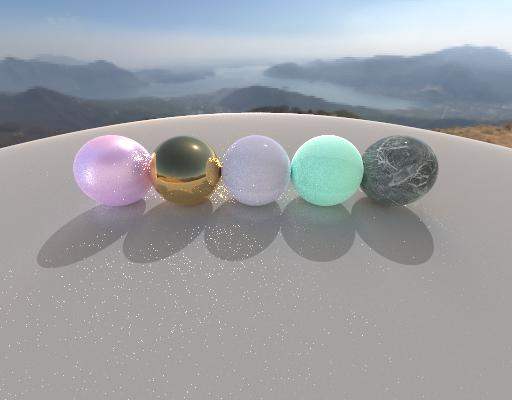
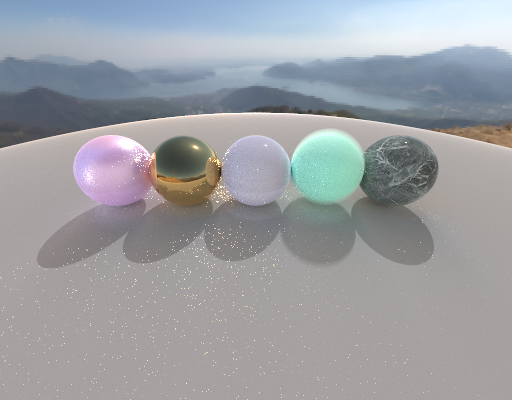
add motion blur

diff --git a/pbrtrs_core/src/scene.rs b/pbrtrs_core/src/scene.rs
@@ -1,7 +1,7 @@
 use crate::types::scalar::consts::PI;
 use crate::types::{color, Color, Euler, Mat4, Pt2, Pt3, Scalar, Vec3};
 
-use cgmath::{vec3, EuclideanSpace, InnerSpace, Rad};
+use cgmath::{vec3, EuclideanSpace, InnerSpace, Rad, Zero};
 use image::{ImageBuffer, Luma, Pixel, Rgb, Rgb32FImage};
 use std::fmt::{Debug, Formatter};
 use std::marker::PhantomData;
@@ -192,8 +192,8 @@ impl Default for DisneyMaterial {
 pub struct Object {
     pub shape: Shape,
     pub position: Pt3,
-    pub rotation: Option<Euler>,
-    pub scale: Option<Euler>,
+    #[serde(default = "Vec3::zero")]
+    pub motion: Vec3,
     pub material: DisneyMaterial,
 }
 
@@ -215,6 +215,7 @@ struct CameraRaw {
     pub position: Pt3,
     pub direction: Vec3,
     pub sensor_distance: Scalar,
+    pub exposure_time: Scalar,
 
     pub bounce_limit: usize,
     pub num_samples: usize,
@@ -227,6 +228,7 @@ pub struct Camera {
     pub position: Pt3,
     pub direction: Vec3,
     pub sensor_distance: Scalar,
+    pub exposure_time: Scalar,
 
     pub bounce_limit: usize,
     pub num_samples: usize,
@@ -236,16 +238,25 @@ pub struct Camera {
 
 impl<'de> DeserializeTrait<'de> for Camera {
     fn deserialize<D: Deserializer<'de>>(deserializer: D) -> Result<Self, D::Error> {
-        let camera_raw: CameraRaw = CameraRaw::deserialize(deserializer)?;
+        let CameraRaw {
+            position,
+            direction,
+            sensor_distance,
+            exposure_time,
+            bounce_limit,
+            num_samples,
+            width,
+            height,
+        } = CameraRaw::deserialize(deserializer)?;
         Ok(Camera {
-            position: camera_raw.position,
-            direction: camera_raw.direction.normalize(),
-            sensor_distance: camera_raw.sensor_distance,
-
-            bounce_limit: camera_raw.bounce_limit,
-            num_samples: camera_raw.num_samples,
-            width: camera_raw.width,
-            height: camera_raw.height,
+            position,
+            direction: direction.normalize(),
+            sensor_distance,
+            exposure_time,
+            bounce_limit,
+            num_samples,
+            width,
+            height,
         })
     }
 }

diff --git a/pbrtrs_main/src/main.rs b/pbrtrs_main/src/main.rs
@@ -98,12 +98,13 @@ fn main() -> Result<(), Box<dyn std::error::Error>> {
                 let mut color = Color::origin();
                 for _ in 0..scene.camera.num_samples {
                     debugger::begin_sample!();
+                    let time = scalar::rand() * scene.camera.exposure_time;
                     let x = x as Scalar + scalar::rand();
                     let y = y as Scalar + scalar::rand();
                     let x = (x / image_width as Scalar) * 2.0 - 1.0;
                     let y = ((y / image_height as Scalar) * 2.0 - 1.0) / aspect_ratio;
                     let ray_dir = camera_basis * vec3(x, y, scene.camera.sensor_distance);
-                    let ray = Ray::new(scene.camera.position, ray_dir);
+                    let ray = Ray::new(scene.camera.position, ray_dir, time);
 
                     let sample_color = ray_color(&ray, &scene, &arena);
                     debugger::end_sample!(sample_color);

diff --git a/pbrtrs_core/src/light/mod.rs b/pbrtrs_core/src/light/mod.rs
@@ -230,7 +230,7 @@ pub fn estimate_direct<M>(
         // TODO: handle medium interactions
 
         if wi.dot(intersection.normal) > 0.0 {
-            let inter_to_light = Ray::new(intersection.point, wi);
+            let inter_to_light = Ray::new(intersection.point, wi, ray.time);
             if scene.intersect(&inter_to_light).is_miss() {
                 let f = bsdf.f(-ray.direction, wi, bxdf_kind);
                 let f = f * wi.dot(intersection.normal).abs();
@@ -288,7 +288,7 @@ pub fn estimate_direct<M>(
             };
 
             if wi.dot(intersection.normal) > 0.0 {
-                let ray = Ray::new(intersection.point, wi);
+                let ray = Ray::new(intersection.point, wi, ray.time);
 
                 if scene.intersect(&ray).is_miss() {
                     let li = light.le(&ray);

diff --git a/pbrtrs_core/src/intersect.rs b/pbrtrs_core/src/intersect.rs
@@ -119,10 +119,11 @@ impl Scene {
     pub fn intersect(&self, ray: &Ray) -> PossibleIntersection<SampledDisneyMaterial> {
         let mut nearest = PossibleIntersection::Miss;
         for object in &self.objects {
-            match object
-                .shape
-                .intersect(ray, object.position.to_vec(), &object.material)
-            {
+            match object.shape.intersect(
+                ray,
+                object.position.to_vec() + object.motion * ray.time,
+                &object.material,
+            ) {
                 PossibleIntersection::Hit(intersection) => {
                     if nearest.is_miss() || intersection.distance < nearest.unwrap().distance {
                         nearest = PossibleIntersection::Hit(intersection);

diff --git a/pbrtrs_core/src/types.rs b/pbrtrs_core/src/types.rs
@@ -59,19 +59,25 @@ pub mod color {
 pub struct Ray {
     pub origin: Pt3,
     pub direction: Vec3,
+    pub time: Scalar,
 }
 
 impl Ray {
-    pub fn new(origin: Pt3, direction: Vec3) -> Ray {
+    pub fn new(origin: Pt3, direction: Vec3, time: Scalar) -> Ray {
         Ray {
             origin,
             direction: direction.normalize(),
+            time,
         }
     }
 
-    pub fn new_no_normalize(origin: Pt3, direction: Vec3) -> Ray {
+    pub fn new_no_normalize(origin: Pt3, direction: Vec3, time: Scalar) -> Ray {
         debug_assert_eq!(direction.magnitude2(), 1.0);
-        Ray { origin, direction }
+        Ray {
+            origin,
+            direction,
+            time,
+        }
     }
 
     pub fn at(&self, t: Scalar) -> Pt3 {

diff --git a/pbrtrs_core/src/raytracer.rs b/pbrtrs_core/src/raytracer.rs
@@ -72,7 +72,7 @@ pub fn ray_color<'arena>(ray: &Ray, scene: &Scene, arena: &'arena Bump) -> Color
                     break;
                 }
 
-                ray = Ray::new(intersection.point, wi);
+                ray = Ray::new(intersection.point, wi, ray.time);
             }
             PossibleIntersection::Ignored => {
                 debugger::ray_print!("Ignored");
